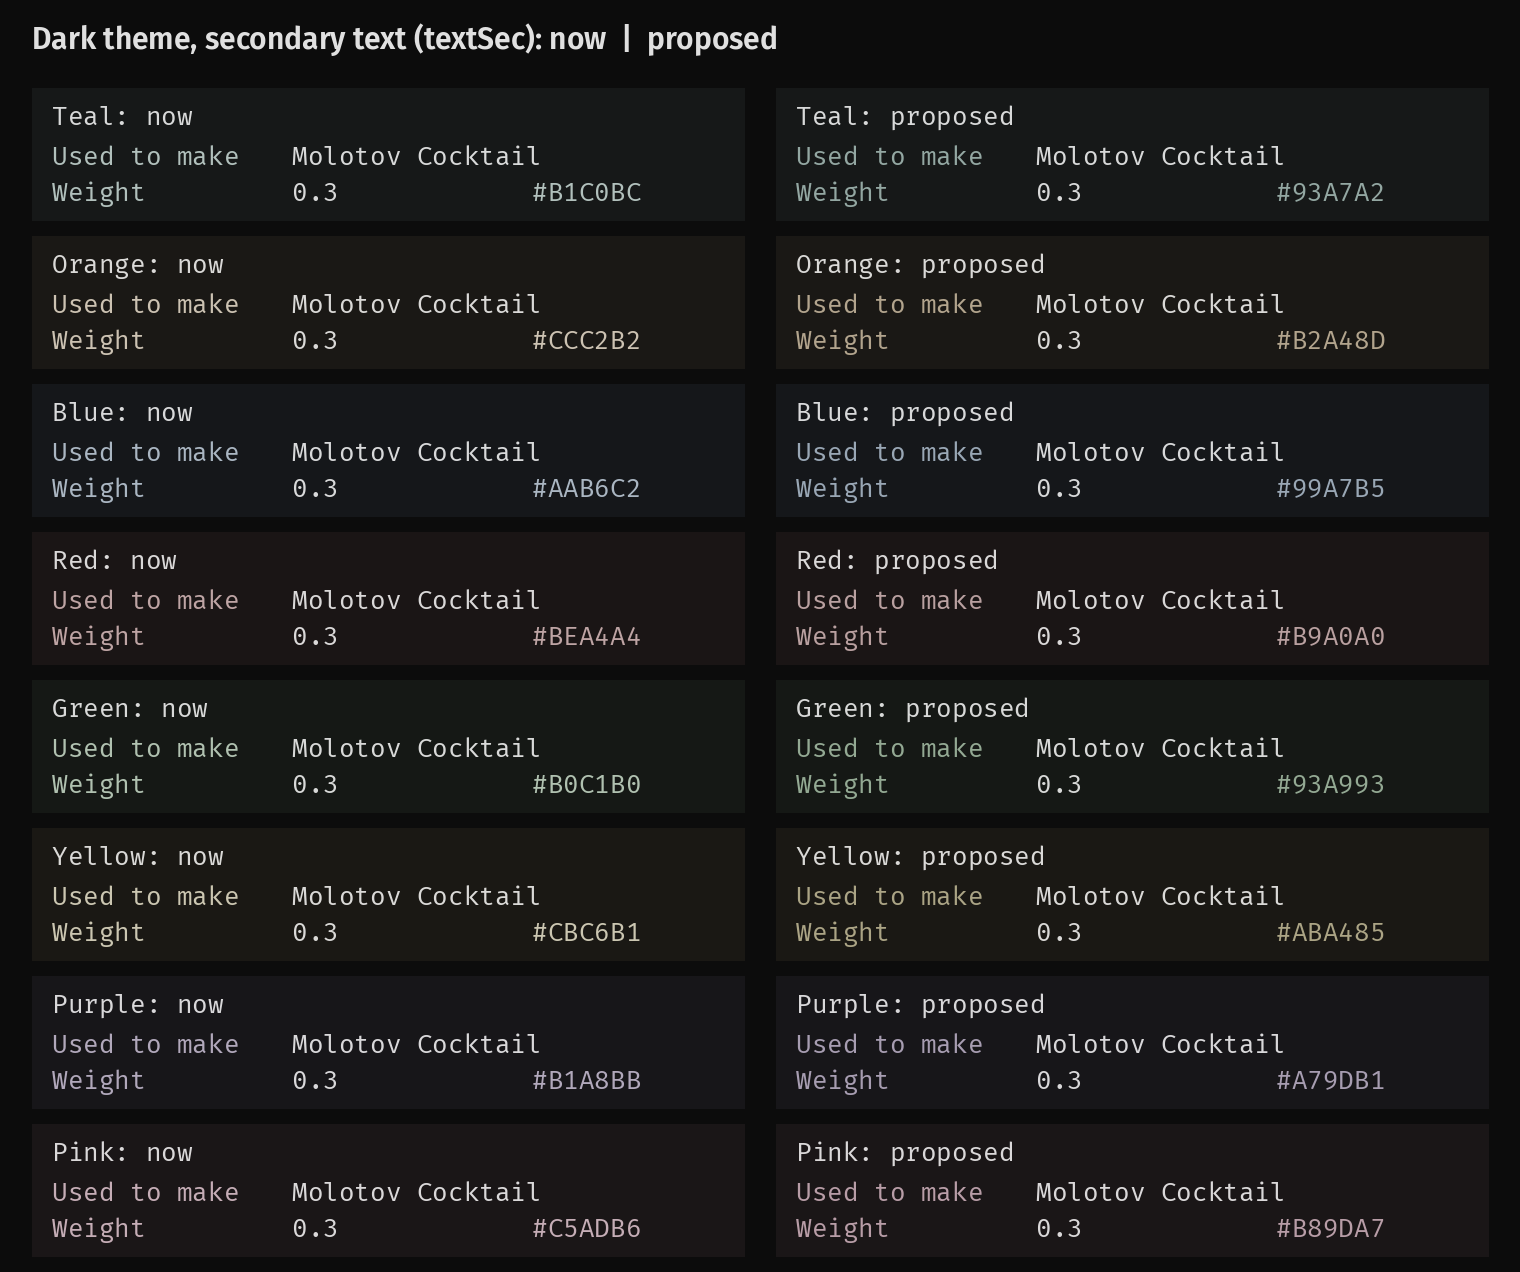
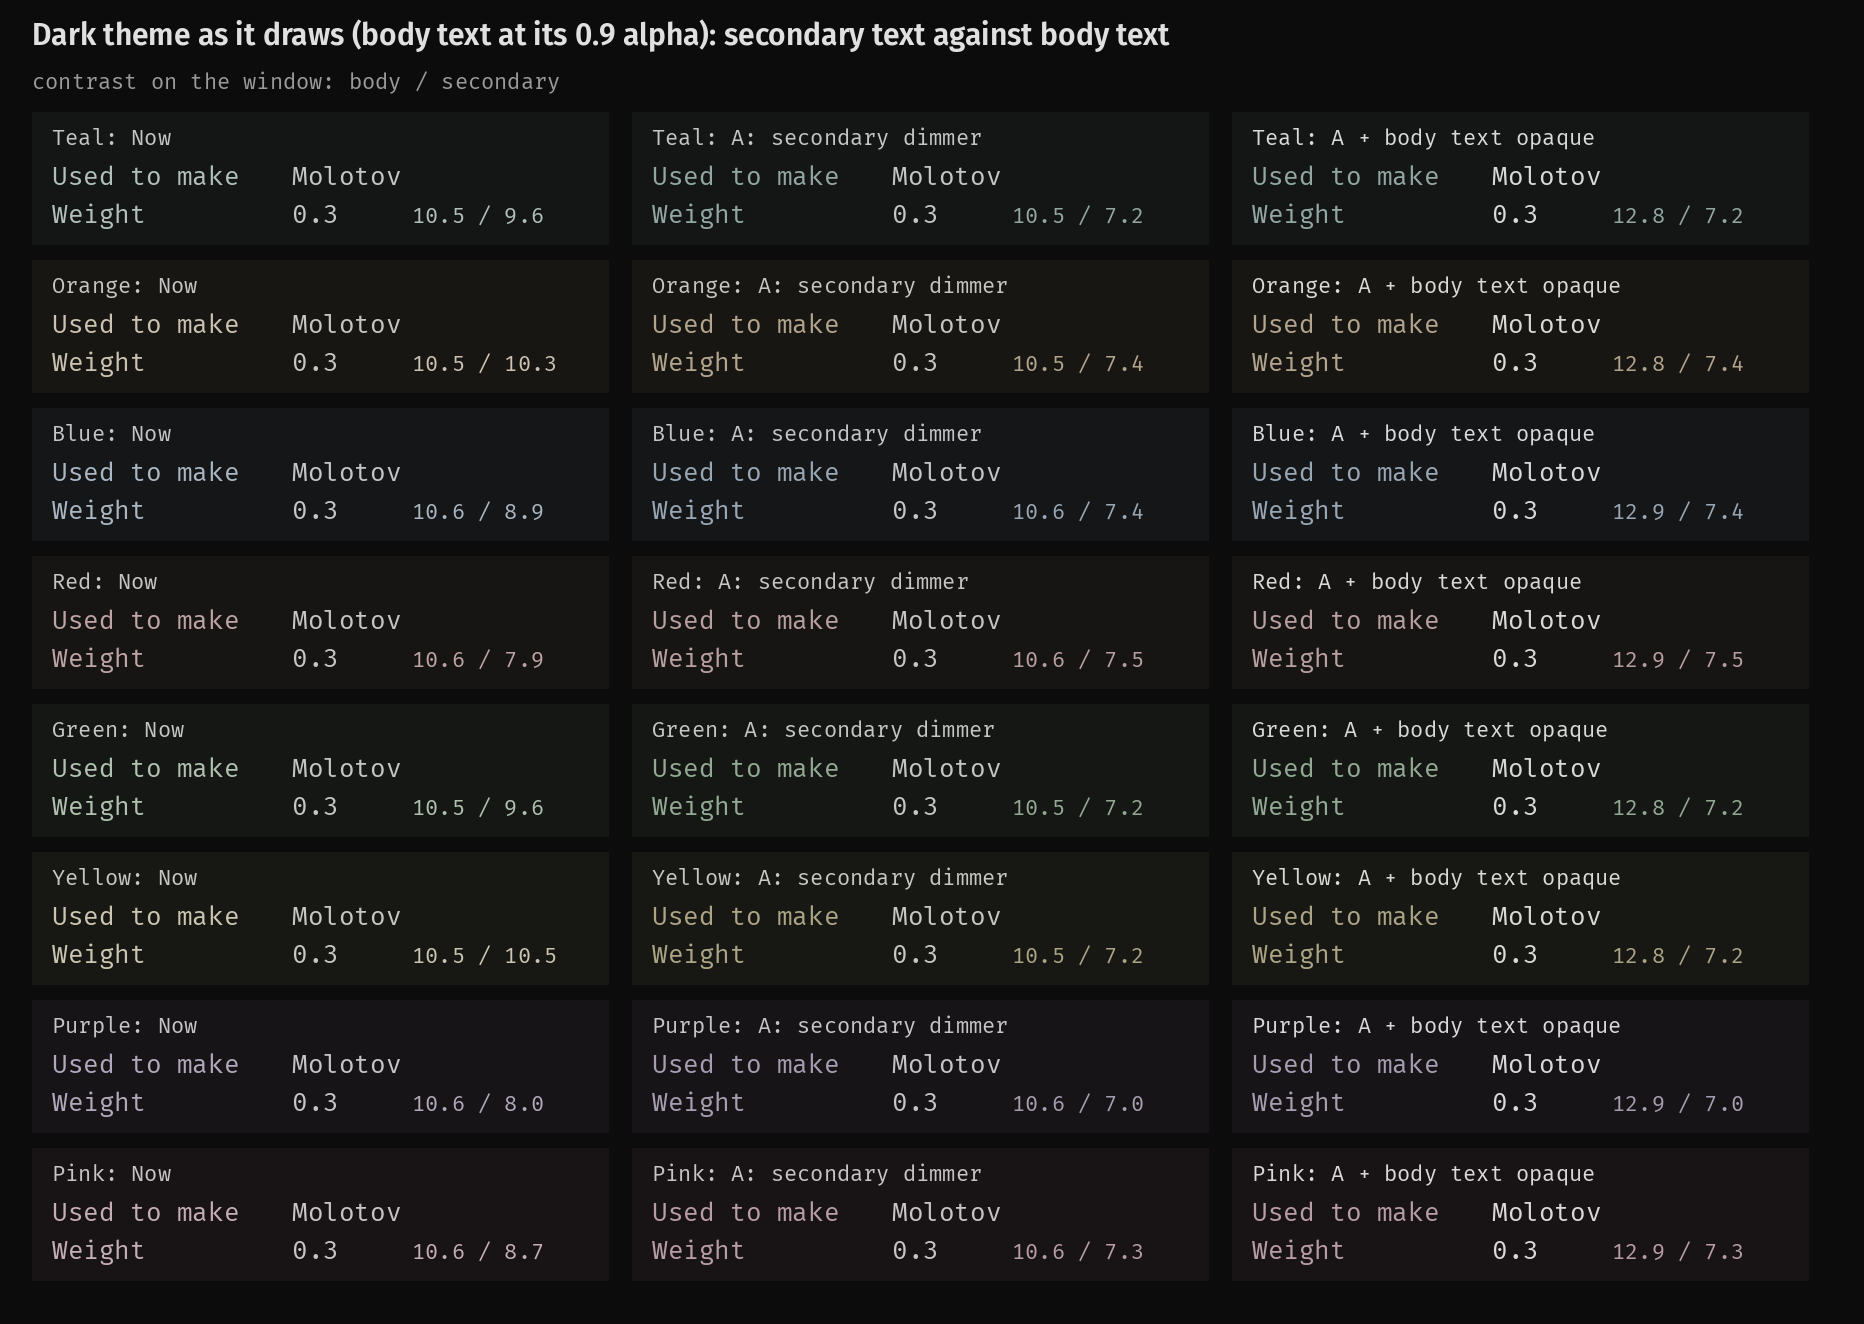
Beta 11 before it ships: gallery list for 155-158, change note lines (for approval), test 14 checklist, textSec sheet as it draws
The textSec sheet now flattens body text at its 0.9 alpha (#C4C6C5, 10.5 : 1), so
the comparison matches the screen; option B adds opaque body text.

Claude-Session: https://claude.ai/code/session_01HmM4YtJhfcSkLZfnWDMxF6

diff --git a/ZeDUI/PUNCH_LIST.md b/ZeDUI/PUNCH_LIST.md
@@ -4158,31 +4158,32 @@ to be proposed.
     let's just have a left hand and a right hand. Keep it simple. Put icons there.").** The empty rings read
     "Second." and "Primary", cut at 1x. The small left ring is the secondary (left hand), the large right one the
     primary (right hand). Scope: the belt only (the director, Nov 11); the Equipment tab's Held rows and the Equip
-    menus keep the game's Primary / Secondary.
+    menus keep the game's Primary / Secondary. **Built (944809c):** zw_hand_right / zw_hand_left (the wheelpx kit's open hand and its mirror) in the empty rings, dim; the belt's hint reads the game's Right Hand / Left Hand (IGUI_health_*). belt_hand_icons_check passes. QA: test 14.
 156. **The Loot tab's "Coming soon" half card goes (the director: "a blank half card that says loot tab card
     placeholder ... quite a bit").** `renderPlaceholder` in ZeD_WorldWindow.lua, drawn when the Loot drawer is open
-    with no item card; the capture scripts pin drawers open. Plan: the drawer folds when it has no card.
+    with no item card; the capture scripts pin drawers open. Plan: the drawer folds when it has no card. **Built (a18ad11):** renderPlaceholder is gone; lootDrawerFallback turns a Loot view in tab mode into the item card, the object card, the columns or a folded drawer (a context tab that hides while open, a restored state). loot_drawer_fallback_sim 10/0. QA: test 14.
 157. **An empty list says "Nothing here." (the director: "It's on a ground tile. So it should say nothing here,
     right? And that would also work for any container too.").** `UI_ZeD_Inv_Empty` (EN) "Nothing in here." to
-    "Nothing here."; `UI_ZeD_St_InvEmpty` "Nothing in it." to match. ES, DE, FR already say it.
+    "Nothing here."; `UI_ZeD_St_InvEmpty` "Nothing in it." to match. ES, DE, FR already say it. **Built (a18ad11):** EN only; `UI_ZeD_St_InvEmpty` (the admin Stats card) left as it is. PTBR still reads "Nada aqui dentro."; the other languages weren't reviewed.
 158. **Speech bubbles in lowercase, in Fira Mono Regular (the director: "much easier to read ... much easier on
     dyslexia. People remember shapes of words"; "mono would probably work fine").** `B.clean` in ZeD_Bubbles.lua
     upper-cases every line for the capitals-only 5 x 7 face. Wanted: `T.fontF3` (Mono Regular, the director's pick
     Nov 11), the case as typed. To check: the balloon's size and pitch (`B.LINE = 9`), ZeD_HaloText.lua's head notes
-    on the same face, and what CN, CH, JP, KO and TH get today.
+    on the same face, and what CN, CH, JP, KO and TH get today. **Built (b70175b):** B.clean keeps the case; lines measure and draw in ZeD.Font.sdf.stat through ZeD.Text (which swaps the game's faces in for CN, CH, JP, KO, TH and the Dyslexic font); pitch 13 on an 11-unit face. Went further than asked: the head notes and the Messages / guide notices too (same balloon, same B.clean); speech-only is a one-line revert. RtvFace's screens keep the 5 x 7 face. bubbles_mono_sim 29/0. QA: test 14.
 159. **Windows jumping and overlapping during the gallery shoot (the director: "The windows are jumping all over the
     place and overlapping other windows ... we'll address that tomorrow").** Not looked into. QA compares new
     captures with their old twins first: the scripts' staging at 1.75x, the Mac stand-in for the runner, or the mod.
 160. **Secondary text as bright as body text (the director on "Used to make": "Why vanilla text color?").** It is
     ZeD's `T.textSec`: #CDC3B3 under Orange, #B7C5C2 under Teal, against body #C5C4C3 in Dark, so labels don't read
     as secondary (the hover card's too). Build proposes values with contrast in every theme and accent, before and
-    after, for the director to approve. **Measured (Nov 11, Tokens.lua as loaded):** in Dark, body text is about 12.8 : 1 on the window
-    and textSec 7.9 to 10.5 : 1; Light is already apart (9.5 against 7.0 to 8.4). The cause is deriveReadable's ghost
+    after, for the director to approve. **Measured (Nov 11, Tokens.lua as loaded):** in Dark, body text draws at alpha 0.9, so on screen it is
+    #C4C6C5, 10.5 : 1 on the window (QA measured #C5C4C3); textSec is opaque at 7.9 to 10.5 : 1, as bright as body
+    text under Orange and Yellow. Light is already apart (9.5 against 7.0 to 8.4). The cause is deriveReadable's ghost
     tier: the faintest colour that passes 4.6 : 1 on every surface over a white world behind the see-through windows
-    (the selection wash over snow or daylight is the worst), which pushes it up toward the text. **Proposed:** Dark's
+    (the selection wash over snow or daylight is the worst), which pushes it up to the text. **Proposed, A:** Dark's
     textSec at 7 : 1 on the window (4.5 over a white world on the plain surface): Teal #93A7A2, Orange #B2A48D, Blue
-    #99A7B5, Green #93A993, Yellow #ABA485, Pink #B89DA7 (Red and Purple barely move: they already sit near 7). The
-    cost: on a selected row over a bright scene it can drop to 3.1 to 4.4 : 1. Before and after:
+    #99A7B5, Red #B9A0A0, Green #93A993, Yellow #ABA485, Purple #A79DB1, Pink #B89DA7. The cost: on a selected row over
+    a bright scene it can drop to 3.1 to 4.4 : 1. **B, with A:** body text opaque (12.8 : 1). Sheet:
     `ZeDUI/mockups/zed_textsec_v1/textsec_dark_before_after.png`. Waiting on the director.
 161. **QA: two sources side by side show no Cond / Amt column** (Name and Wt only); the gallery's hero shots are staged
     that way and B11_RECAPTURE.md asks for the column. **Build looked (Nov 11):** by design. Two or more sources side by side set `_compactMode` (InventoryRenderer.lua), which draws Name and Wt only; the narrowing rule isn't involved. B11_RECAPTURE.md now asks for one source open in 01 and 19, so the column shows. Giving the compact layout a bar is the director's call.

diff --git a/ZeDUI/workshop/gallery/B11_RECAPTURE.md b/ZeDUI/workshop/gallery/B11_RECAPTURE.md
@@ -28,6 +28,13 @@ and 63 read from `~/Zomboid/Screenshots/gallery_beta2` by full path: retake thos
 - **Menus (138, 140):** blue and red marks on paired actions; new Eat, Sneak, Safehouse, outfit and loadout icons.
 - **The ID card (145):** a camera button in the photo's corner (the portrait studio).
 - **The desk (142):** the single sticky note is gone; the Pasties icon heads the desktop's left column.
+- **Speech balloons, head notes and notices (158):** the line in lowercase Fira Mono, as said, no longer in pixel
+  capitals; the balloon is a little taller a line.
+- **The belt's empty hands (155):** a right hand icon in the main (large) ring, a left hand in the off (small) ring,
+  no words.
+- **The Loot drawer (156):** the "Coming soon" half card is gone. A Loot drawer open with no card in it now folds, so
+  the World window is narrower there than in the old pictures: that is intended, not a jump (159).
+- **Empty lists (157):** "Nothing here." (was "Nothing in here.").
 - **The item card (152, 153):** a liquid container shows Liquid Facts with its litres; "Used to make" sits flush left.
 
 ## Tier 1: the content changed (retake, and check what each shows)
@@ -41,7 +48,7 @@ and 63 read from `~/Zomboid/Screenshots/gallery_beta2` by full path: retake thos
 | 07 barricading | story_05a_barricade_menu.png, story_05b_barricade_bar.png | The barricade menu with its marks; the action bar. |
 | 08 stocking shelves | story_07b_drag_to_shelf.png | The drag to the shelf: the Cond / Amt column; if the shot catches it, rows waiting to move say so. |
 | 10 pumping gas | story_09b_gas_can_card.png, story_09c_dash_fuel_full.png | The gas can's item card: Liquid Facts, Gasoline's litres and "Amount ... / ... L" (the game's red Tainted on gasoline is expected). The dash's full tank. |
-| 11 customers | story_10_customers_queue.png, zqa_ht_06_rightwatch_pistol.png | The queue in the rows; the belt with the pistol: its ring in five cells. |
+| 11 customers | story_10_customers_queue.png, zqa_ht_06_rightwatch_pistol.png | The queue in the rows; the belt with the pistol: its ring in five cells; an empty hand shows its hand icon (155). |
 | 12 smoke break | story_11_smoke_break.png | The smoke break with the lighter's bar in light neutral cells wherever it shows. |
 | 15 every window | zqa_cw_02_dark_small_window_menu_theme.png, zqa_cw_01_dark_small_card.png, zqa_cw_14_focus_hand_inventory_row.png | Windows with the new title bars and the Cond / Amt column. |
 | 16 see-through | zqa_cw_12b_solid_in_use.png, zqa_cw_08_seethrough_100.png, zqa_cw_12_seethrough_60.png | The same three see-through levels, with the new columns. |
@@ -52,10 +59,10 @@ and 63 read from `~/Zomboid/Screenshots/gallery_beta2` by full path: retake thos
 | 22 equip doll | zed_10_equip_doll.png | The Equipment tab: the Equipped list's bars by the one-bar rule; a hooded top under Torso, Outer if worn. |
 | 23 health | zed_11_health_exercise.png (van_11 stays) | The Health tab with its five-cell bars; injury rows' percents whole. |
 | 25 context menus | zed_20_ctx_strip.png, zed_21_ctx_list.png (van_20 stays) | The strip with its arrow boxes in the accent and blue/red marks, one action named above; the list with a submenu open. |
-| 30 belt | zqa_ht_01_two.png, zqa_ht_02_both.png, zqa_ht_06_rightwatch_pistol.png | The belt: hand rings in five cells; one hand holding a water bottle (ten blue cells) if the layout allows. |
-| 31 bubbles | zqa_ht_01_two.png, zqa_ht_02_both.png (shared with 30), zqa_bub_both_dark.png | As 30; the bubbles keep the thought bubble. |
+| 30 belt | zqa_ht_01_two.png, zqa_ht_02_both.png, zqa_ht_06_rightwatch_pistol.png | The belt: hand rings in five cells; one hand holding a water bottle (ten blue cells) if the layout allows; an empty hand shows its hand icon (155). |
+| 31 bubbles | zqa_ht_01_two.png, zqa_ht_02_both.png (shared with 30), zqa_bub_both_dark.png | As 30; the bubbles keep the thought bubble; the balloon's line in lowercase Fira Mono (158). |
 | 32 moodles | zqa_mood_left_hover.png, zqa_mood_bottom_hover.png, zqa_mood_right_hover.png | zedqa_moodles.lua takes these: the pointer's moodle with its balloon, in the three places. |
-| 34 messages | zqa_g4_belt_toast.png, zqa_g4_window_radio.png, zqa_g4_guide_bubble.png (new in beta 10) | The guide bubble out of the Messages icon (zedqa_guide_bubble.lua step 2, "2_bubble_from_belt", copied under this name). |
+| 34 messages | zqa_g4_belt_toast.png, zqa_g4_window_radio.png, zqa_g4_guide_bubble.png (new in beta 10) | The guide bubble out of the Messages icon (zedqa_guide_bubble.lua step 2, "2_bubble_from_belt", copied under this name); the toast and the bubble in lowercase Fira Mono (158). |
 | 39 reading and writing | zqa_nb_01_page1.png, zqa_rd_01_paper.png | A notebook's first page and the reader on a newspaper, on the 70% paper. |
 | 43 controller | zqa_g3_wheel_character_eat.png, zqa_g3_wheel_now_light.png, zqa_g3_wheel_use_smoke.png, zqa_g3_footer_pad.png | The wheels with the new Eat icon (the figure with a fork) and the blue/red marks. |
 | 45 themes | theme_dark_orange.png, theme_dark_green.png, theme_light_blue.png, theme_light_red.png, theme_hicon_teal.png, theme_hicon_purple.png, zqa_cw_02_dark_small_window_menu_theme.png | **Each in the theme and accent its name says** (not Teal throughout), with the new title bars and columns. |

diff --git a/ZeDUI/qa/CHECK_b11_test14_20261111.md b/ZeDUI/qa/CHECK_b11_test14_20261111.md
@@ -1,0 +1,37 @@
+# Beta 11 test 14: the director's Nov 10 notes (Mac, Nov 11 2026)
+
+Build: `0.3.0-beta11-test14`, from `claude/keen-meitner-optdjj` (PR #5): test 13 plus punch list 155 to 158. Test 13's
+passes stand. Run in PZ Teal, the game's Font Size at 19px. Report each as ok, wrong (what you saw, a picture), or not
+run. Take each at 1x and at 1.75x unless it says otherwise.
+
+### 158. Speech balloons, head notes and notices in lowercase Fira Mono
+- Say a line (zedqa_bubbles.lua does "Ahh. That's the stuff."): the balloon reads it as typed, lowercase, in Fira
+  Mono; the padding even above the capitals and below the descenders (g, p, y); the tail still meets the balloon.
+- A long line wraps inside the balloon, no word past its edge; beside the Verbose thought bubble too.
+- A head note (zedqa_halo_notes.lua: "Too heavy", a skill gain): lowercase; the status dot in line with the words.
+- A notice out of the Messages icon (a toast, the guide bubble): lowercase, whole, the dot in line.
+- One of 中文, 日本語 or 한국어: a line in the balloon draws in that script, nothing blank.
+- A radio or TV screen with heard lines (RtvFace): still the 5 x 7 pixel face, wrapped as before.
+
+### 155. The belt's empty hands
+- Both hands empty: a right hand icon in the large main ring, a left hand in the small off ring, dim, centred, no
+  words. The right hand's thumb points left; the left hand's right.
+- Holding something: the item's picture as before. A two-handed item: the off hand peeks, empty of icon and words.
+- Hover an empty hand (and the controller's focus on it): the hint reads Right Hand / Left Hand. Report the exact words.
+- The Equipment tab's Held rows and the Equip menus still say Primary and Secondary.
+
+### 156. The Loot drawer folds when it has no card
+- Open an item card on the Loot tab, close it: the drawer folds; no "Coming soon" half card.
+- Open a context tab (a vehicle's, a station's), walk away until the tab goes while its drawer is open: the window
+  falls back to Loot with the drawer folded (or showing a card still open), never the half card.
+- Quit and reload with the World window open on Loot: no half card.
+- The gallery's capture scripts that pin drawers open: report any that now show a narrower window than their old twin
+  (that is intended; note which).
+
+### 157. "Nothing here."
+- An empty floor tile and an empty container: the list reads "Nothing here." In English only; other languages as
+  before.
+
+## Regression
+- The release check, as for any build.
+- No Lua errors from ZeD.
